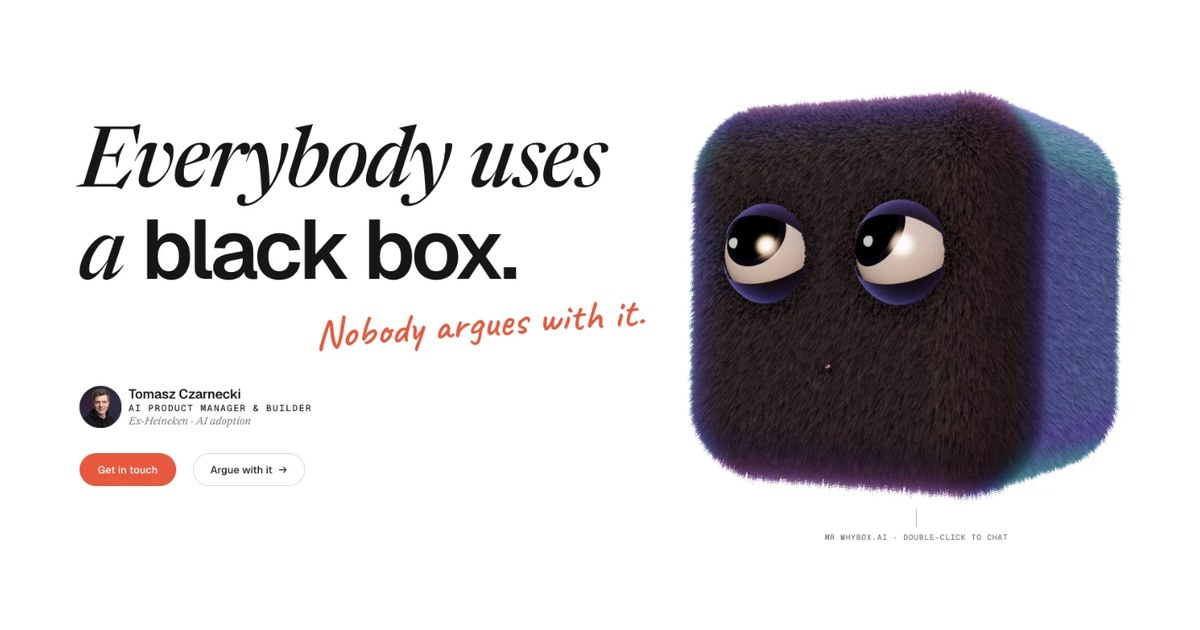
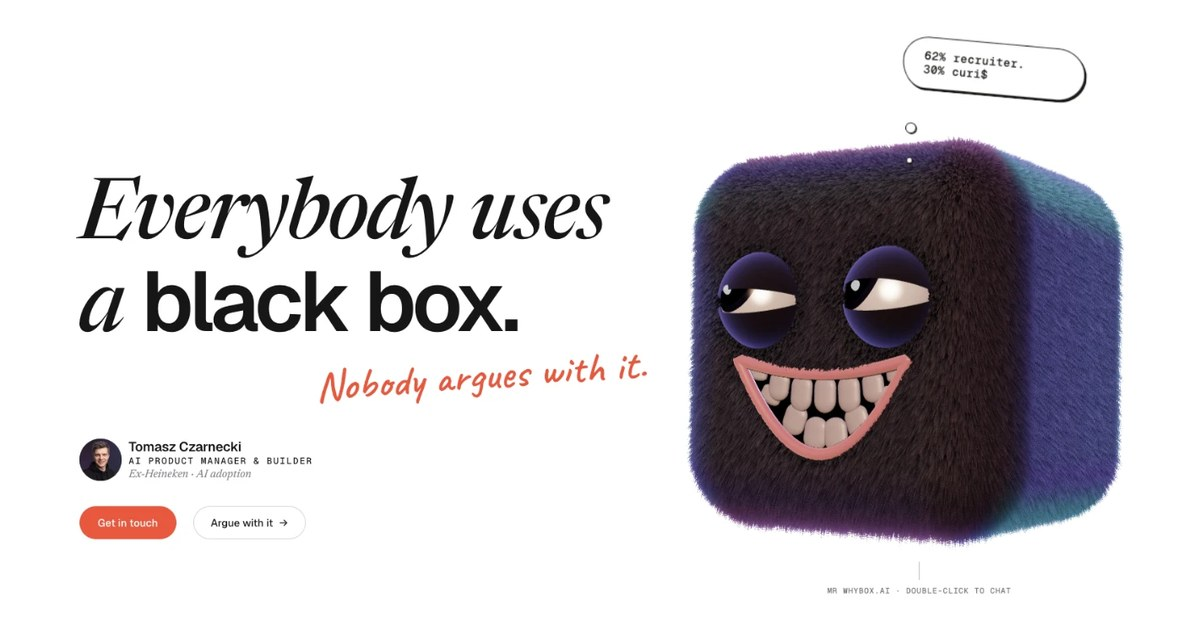
Social preview: the grinning black box (og-card ?v=4)
Same 1200x630 hero crop, now from the screenshot where the box grins,
with its full "62% recruiter" thought bubble.

diff --git a/index.html b/index.html
@@ -12,11 +12,11 @@
 <meta property="og:title" content="Tomasz Czarnecki · AI Product Manager">
 <meta property="og:description" content="Nobody uses a black box. So I build AI people can argue with. First product person at Heineken&#x27;s Global Analytics &amp; AI Hub. Three production decision systems, built for a ~€2.9B budget.">
 <meta property="og:url" content="https://czarnecki.ai/">
-<meta property="og:image" content="https://czarnecki.ai/assets/og-card.jpg?v=3">
+<meta property="og:image" content="https://czarnecki.ai/assets/og-card.jpg?v=4">
 <meta name="twitter:card" content="summary_large_image">
 <meta name="twitter:title" content="Tomasz Czarnecki · AI Product Manager">
 <meta name="twitter:description" content="Nobody uses a black box. So I build AI people can argue with. First product person at Heineken&#x27;s Global Analytics &amp; AI Hub. Three production decision systems, built for a ~€2.9B budget.">
-<meta name="twitter:image" content="https://czarnecki.ai/assets/og-card.jpg?v=3">
+<meta name="twitter:image" content="https://czarnecki.ai/assets/og-card.jpg?v=4">
 <meta name="theme-color" content="#ffffff">
 <link rel="icon" type="image/png" sizes="32x32" href="assets/favicon-32.png?v=3">
 <link rel="icon" type="image/png" sizes="16x16" href="assets/favicon-16.png?v=3">

diff --git a/allocation-ai.html b/allocation-ai.html
@@ -12,11 +12,11 @@
 <meta property="og:title" content="Allocation AI · Case Study | Tomasz Czarnecki">
 <meta property="og:description" content="Bayesian budget allocation across markets, brands, and channels at Heineken: moving marketing-mix decisions from intuition-driven to data-driven, with a 36% ROI improvement.">
 <meta property="og:url" content="https://czarnecki.ai/allocation-ai.html">
-<meta property="og:image" content="https://czarnecki.ai/assets/og-card.jpg?v=3">
+<meta property="og:image" content="https://czarnecki.ai/assets/og-card.jpg?v=4">
 <meta name="twitter:card" content="summary_large_image">
 <meta name="twitter:title" content="Allocation AI · Case Study | Tomasz Czarnecki">
 <meta name="twitter:description" content="Bayesian budget allocation across markets, brands, and channels at Heineken: moving marketing-mix decisions from intuition-driven to data-driven, with a 36% ROI improvement.">
-<meta name="twitter:image" content="https://czarnecki.ai/assets/og-card.jpg?v=3">
+<meta name="twitter:image" content="https://czarnecki.ai/assets/og-card.jpg?v=4">
 <meta name="theme-color" content="#ffffff">
 <link rel="icon" type="image/png" sizes="32x32" href="assets/favicon-32.png?v=3">
 <link rel="icon" type="image/png" sizes="16x16" href="assets/favicon-16.png?v=3">

diff --git a/smart-flighting.html b/smart-flighting.html
@@ -12,11 +12,11 @@
 <meta property="og:title" content="Smart Flighting · Case Study | Tomasz Czarnecki">
 <meta property="og:description" content="A flighting simulator for testing campaign timing with AI response models: from an Excel workbook to an interactive platform, targeting +1–1.5% of net revenue.">
 <meta property="og:url" content="https://czarnecki.ai/smart-flighting.html">
-<meta property="og:image" content="https://czarnecki.ai/assets/og-card.jpg?v=3">
+<meta property="og:image" content="https://czarnecki.ai/assets/og-card.jpg?v=4">
 <meta name="twitter:card" content="summary_large_image">
 <meta name="twitter:title" content="Smart Flighting · Case Study | Tomasz Czarnecki">
 <meta name="twitter:description" content="A flighting simulator for testing campaign timing with AI response models: from an Excel workbook to an interactive platform, targeting +1–1.5% of net revenue.">
-<meta name="twitter:image" content="https://czarnecki.ai/assets/og-card.jpg?v=3">
+<meta name="twitter:image" content="https://czarnecki.ai/assets/og-card.jpg?v=4">
 <meta name="theme-color" content="#ffffff">
 <link rel="icon" type="image/png" sizes="32x32" href="assets/favicon-32.png?v=3">
 <link rel="icon" type="image/png" sizes="16x16" href="assets/favicon-16.png?v=3">

diff --git a/promo-advisor.html b/promo-advisor.html
@@ -12,11 +12,11 @@
 <meta property="og:title" content="Promo Advisor · Case Study | Tomasz Czarnecki">
 <meta property="og:description" content="Promotion management live in multiple markets: diagnostics, scenario simulator, and calendar optimizer. Built at Heineken for 30–40% faster promo planning.">
 <meta property="og:url" content="https://czarnecki.ai/promo-advisor.html">
-<meta property="og:image" content="https://czarnecki.ai/assets/og-card.jpg?v=3">
+<meta property="og:image" content="https://czarnecki.ai/assets/og-card.jpg?v=4">
 <meta name="twitter:card" content="summary_large_image">
 <meta name="twitter:title" content="Promo Advisor · Case Study | Tomasz Czarnecki">
 <meta name="twitter:description" content="Promotion management live in multiple markets: diagnostics, scenario simulator, and calendar optimizer. Built at Heineken for 30–40% faster promo planning.">
-<meta name="twitter:image" content="https://czarnecki.ai/assets/og-card.jpg?v=3">
+<meta name="twitter:image" content="https://czarnecki.ai/assets/og-card.jpg?v=4">
 <meta name="theme-color" content="#ffffff">
 <link rel="icon" type="image/png" sizes="32x32" href="assets/favicon-32.png?v=3">
 <link rel="icon" type="image/png" sizes="16x16" href="assets/favicon-16.png?v=3">
